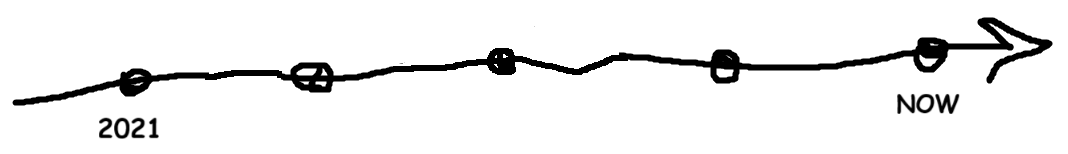
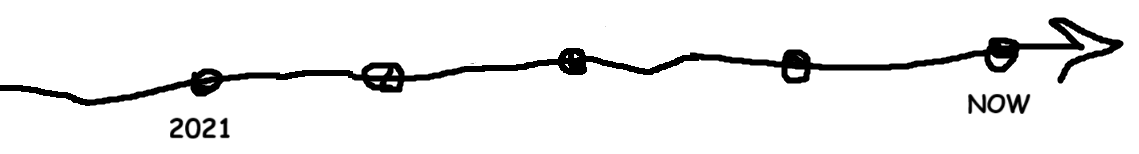
updated story section

diff --git a/components/Story.tsx b/components/Story.tsx
@@ -1,53 +1,69 @@
-import React from 'react';
-import { motion } from 'framer-motion';
+import React, { useRef } from 'react';
+import { motion, useScroll, useTransform } from 'framer-motion';
 
 const milestones = [
-    { label: 'Python', iconUrl: '/assets/story/python.png', position: '13%', yPos: '-25%' },
-    { label: 'C++', iconUrl: '/assets/story/c++.png', position: '29%', yPos: '-25%' },
-    { label: 'DBMS', iconUrl: '/assets/story/dbms.png', position: '47%', yPos: '-25%' },
-    { label: 'Java', iconUrl: '/assets/story/java.png', position: '68%', yPos: '-25%' },
+    { label: 'Python', iconUrl: '/assets/story/python.png', position: '18%', yPos: '-25%' },
+    { label: 'C++', iconUrl: '/assets/story/c++.png', position: '34%', yPos: '-25%' },
+    { label: 'DBMS', iconUrl: '/assets/story/dbms.png', position: '50%', yPos: '-25%' },
+    { label: 'Java', iconUrl: '/assets/story/java.png', position: '70%', yPos: '-25%' },
     { label: 'Go', iconUrl: '/assets/story/go.png', position: '87%', yPos: '-25%' },
 ];
 
-const Story: React.FC = () => {
+const Polaroid: React.FC<{ src: string, caption: string, rotation: string, yRange: [string, string], scrollProgress: any }> = ({ src, caption, rotation, yRange, scrollProgress }) => {
+    const y = useTransform(scrollProgress, [0, 1], yRange);
     return (
-        <section id="story" className="content-section bg-white">
-            <div className="max-w-5xl mx-auto px-4">
-                
-                <motion.p 
-                    className="font-['Caveat'] text-2xl md:text-3xl text-black/50 text-center -rotate-3 mb-8"
-                    initial={{ opacity: 0, y: 20 }}
-                    whileInView={{ opacity: 1, y: 0 }}
-                    viewport={{ once: true, amount: 0.8 }}
-                    transition={{ duration: 0.8 }}
+        <motion.div
+            className="p-2 md:p-4 bg-white shadow-xl absolute"
+            style={{ y, rotate: rotation }}
+        >
+            <img src={src} alt={caption} className="w-full h-auto" />
+            <p className="font-['Caveat'] text-center text-lg md:text-xl mt-2">{caption}</p>
+        </motion.div>
+    );
+};
+
+const Story: React.FC = () => {
+    const parallaxRef = useRef(null);
+    const { scrollYProgress } = useScroll({
+        target: parallaxRef,
+        offset: ['start end', 'end start']
+    });
+
+    return (
+        <section id="story" className="content-section bg-white relative min-h-[3000px] overflow-hidden">
+            <div className="max-w-5xl mx-auto px-4 relative">
+
+                {/* --- FLOATING QUOTE --- */}
+                <motion.p
+                    className="font-['Caveat'] text-2xl md:text-3xl text-black/50 text-center absolute"
+                    style={{ top: '100px', left: '30%', rotate: '4deg' }}
+                    initial={{ opacity: 0, y: 20 }} whileInView={{ opacity: 1, y: 0 }}
+                    viewport={{ once: true, amount: 0.8 }} transition={{ duration: 0.8 }}
                 >
-                    Every experience in my life is important and has taught me a lot
+                    Every experience in my life is <br/>important and has taught me a lot
                 </motion.p>
 
-                <motion.div 
-                    className="relative mt-40"
-                    initial={{ opacity: 0, y: 50 }}
-                    whileInView={{ opacity: 1, y: 0 }}
-                    viewport={{ once: true, amount: 0.3 }}
-                    transition={{ duration: 1, ease: "easeOut" }}
+                {/* --- TIMELINE SECTION --- */}
+                <motion.div
+                    className="absolute"
+                    style={{ top: '350px', left: '-25%', width: '140%' }}
+                    initial={{ opacity: 0, y: 50 }} whileInView={{ opacity: 1, y: 0 }}
+                    viewport={{ once: true, amount: 0.3 }} transition={{ duration: 1, ease: "easeOut" }}
                 >
-                    <img src="/assets/story/timeline.png" alt="Timeline from 2020 to now" className="w-full rotate-2" />
-                    
+                    <img src="/assets/story/timeline.png" alt="Timeline" className="w-full rotate-1" />
                     {milestones.map((milestone, index) => (
                         <div
                             key={index}
                             className="absolute -translate-y-1/2 -translate-x-1/2 text-center"
                             style={{ left: milestone.position, top: milestone.yPos }}
                         >
-                            {/* --- THIS IS THE FIX --- */}
-                            {/* This outer div now handles the initial, staggered animation. */}
                             <motion.div
                                 initial={{ opacity: 0, scale: 0.5 }}
                                 whileInView={{ opacity: 1, scale: 1 }}
+                                whileHover={{ scale: 1.1, y: -10 }}
                                 viewport={{ once: true, amount: 0.8 }}
                                 transition={{ duration: 0.6, delay: 0.2 + index * 0.1, ease: [0, 0, 0.2, 1] }}
                             >
-                                {/* This new inner div handles ONLY the hover animation, so it's instant. */}
                                 <motion.div whileHover={{ scale: 1.1, y: -10 }}>
                                     <div className="bg-white/50 backdrop-blur-sm rounded-full p-2 w-20 h-20 md:w-28 md:h-28 flex items-center justify-center shadow-lg">
                                         <img src={milestone.iconUrl} alt={milestone.label} className="w-12 h-12 md:w-16 md:h-16 object-contain" />
@@ -57,6 +73,158 @@ const Story: React.FC = () => {
                             </motion.div>
                         </div>
                     ))}
+                </motion.div>
+
+                {/* --- HEADING --- */}
+                <motion.h2
+                    className="text-4xl md:text-8xl font-black font-['Reddit_Sans_Condensed'] uppercase tracking-tighter leading-none absolute"
+                    style={{ top: '800px', left: '-19%' }}
+                    initial={{ opacity: 0 }} whileInView={{ opacity: 1 }}
+                    viewport={{ once: true, amount: 0.8 }} transition={{ duration: 1 }}
+                >
+                    No dark secrets
+                </motion.h2>
+
+                <motion.h3
+                    className="text-4xl md:text-6xl font-black font-['Reddit_Sans_Condensed'] uppercase tracking-tighter leading-none absolute"
+                    style={{ top: '900px', left: '-19%' }}
+                    initial={{ opacity: 0 }} whileInView={{ opacity: 1 }}
+                    viewport={{ once: true, amount: 0.8 }} transition={{ duration: 1 }}
+                >
+                    only late-night ideas that somehow worked.
+                </motion.h3>
+
+                {/* --- ABOUT ME TEXT BOX --- */}
+                <motion.div
+                  className="absolute bg-neutral-100 rounded-3xl shadow-sm p-10"
+                  style={{
+                    top: '1150px',
+                    left: '-20%',
+                    width: '70%',
+                  }}
+                  initial={{ opacity: 0, y: 50 }}
+                  whileInView={{ opacity: 1, y: 0 }}
+                  viewport={{ once: true, amount: 0.3 }}
+                  transition={{ duration: 0.8 }}
+                >
+                  <motion.div
+                    className="space-y-6 text-black/70 text-lg md:text-xl font-['Inter_Display']"
+                    initial={{ opacity: 0, x: -30 }}
+                    whileInView={{ opacity: 1, x: 0 }}
+                    transition={{ duration: 0.8 }}
+                  >
+                    <p>
+                      Grew up in Bangalore, India. I was exposed to computers at a young age, 
+                      and I was instantly hooked. Spent a lot of my time gaming and then went on to wonder
+                      how games work, what was behind it all.<br />
+                      This curosity led me to learn programming, and I started with Python, my first language.<br />                      
+                      From there, I explored various programming languages and technologies, including C++, Java, Go, and DBMS.
+                    </p>
+                    <p>
+                      Pursing computer science gives me a solid technical foundation, and
+                      diving into product design showed me new creative depths I hadn't
+                      imagined.
+                    </p>
+                    <p>
+                      Now, I'm building projects, learning new skills, and embracing the journey ahead.
+                      Every experience, every challenge, and every success is a stepping stone
+                      towards becoming the best version of myself.
+                     </p>
+                  </motion.div>
+                </motion.div>
+
+                {/* --- POLAROID BOX --- */}
+                <motion.div
+                  className="absolute bg-neutral-100 rounded-3xl shadow-sm p-10"
+                  style={{
+                    top: '1150px',
+                    left: '55%',
+                    width: '65%',
+                    height: '493px',
+                  }}
+                  initial={{ opacity: 0, y: 50 }}
+                  whileInView={{ opacity: 1, y: 0 }}
+                  viewport={{ once: true, amount: 0.3 }}
+                  transition={{ duration: 0.8 }}
+                >
+                  <div ref={parallaxRef} className="relative w-full h-full">
+                    <Polaroid
+                      src="/assets/story/placeholder-1.jpg"
+                      caption="Scribbles on the wall"
+                      rotation="-6deg"
+                      yRange={['30%', '-30%']}
+                      scrollProgress={scrollYProgress}
+                    />
+                    <Polaroid
+                      src="/assets/story/placeholder-2.jpg"
+                      caption="Another memory"
+                      rotation="8deg"
+                      yRange={['-15%', '15%']}
+                      scrollProgress={scrollYProgress}
+                    />
+                  </div>
+                </motion.div>
+
+
+                {/* --- MISSION IMAGE BOX --- */}
+                <motion.div
+                  className="absolute bg-neutral-100 rounded-3xl shadow-sm p-10 flex justify-center items-center"
+                  style={{
+                    top: '1700px',
+                    left: '-20%',
+                    width: '50%',
+                    height: '393px',
+                  }}
+                  initial={{ opacity: 0, y: 50 }}
+                  whileInView={{ opacity: 1, y: 0 }}
+                  viewport={{ once: true, amount: 0.3 }}
+                  transition={{ duration: 0.8 }}
+                >
+                  <motion.img
+                    src="/assets/story/placeholder.gif"
+                    alt="Showcase GIF"
+                    className="w-full rounded-2xl"
+                    initial={{ opacity: 0, scale: 0.9 }}
+                    whileInView={{ opacity: 1, scale: 1 }}
+                    transition={{ duration: 0.8 }}
+                  />
+                </motion.div>
+
+                {/* --- MISSION TEXT BOX --- */}
+                <motion.div
+                  className="absolute bg-neutral-100 rounded-3xl shadow-sm p-10"
+                  style={{
+                    top: '1700px',
+                    left: '34.5%',
+                    width: '85.5%',
+                  }}
+                  initial={{ opacity: 0, y: 50 }}
+                  whileInView={{ opacity: 1, y: 0 }}
+                  viewport={{ once: true, amount: 0.3 }}
+                  transition={{ duration: 0.8 }}
+                >
+                  <motion.div
+                    className="space-y-6 text-black/70 text-lg md:text-xl font-['Inter_Display']"
+                    initial={{ opacity: 0, x: 50 }}
+                    whileInView={{ opacity: 1, x: 0 }}
+                    transition={{ duration: 0.8 }}
+                  >
+                    <h3 className="text-4xl font-bold font-['Reddit_Sans_Condensed'] text-black">
+                      The Way Forward...
+                    </h3>
+                    <p>
+                      I’m focused on building intelligent systems that don’t just analyze data 
+                      they understand people. From crafting mindful tools like Cerebro to AI assistants that teach, 
+                      track, and adapt, my goal is to bridge technical precision with human impact.<br/>
+                    </p>
+                    <br/>
+                    The journey ahead is about experimenting boldly, merging creativity, empathy, 
+                    and AI to design experiences that feel alive. Whether it’s rethinking productivity, emotional wellbeing, 
+                    or human–AI interaction, I want my work to shape tools that grow with people, not just for them.
+                    <p>
+                      
+                    </p>
+                  </motion.div>
                 </motion.div>
             </div>
         </section>
